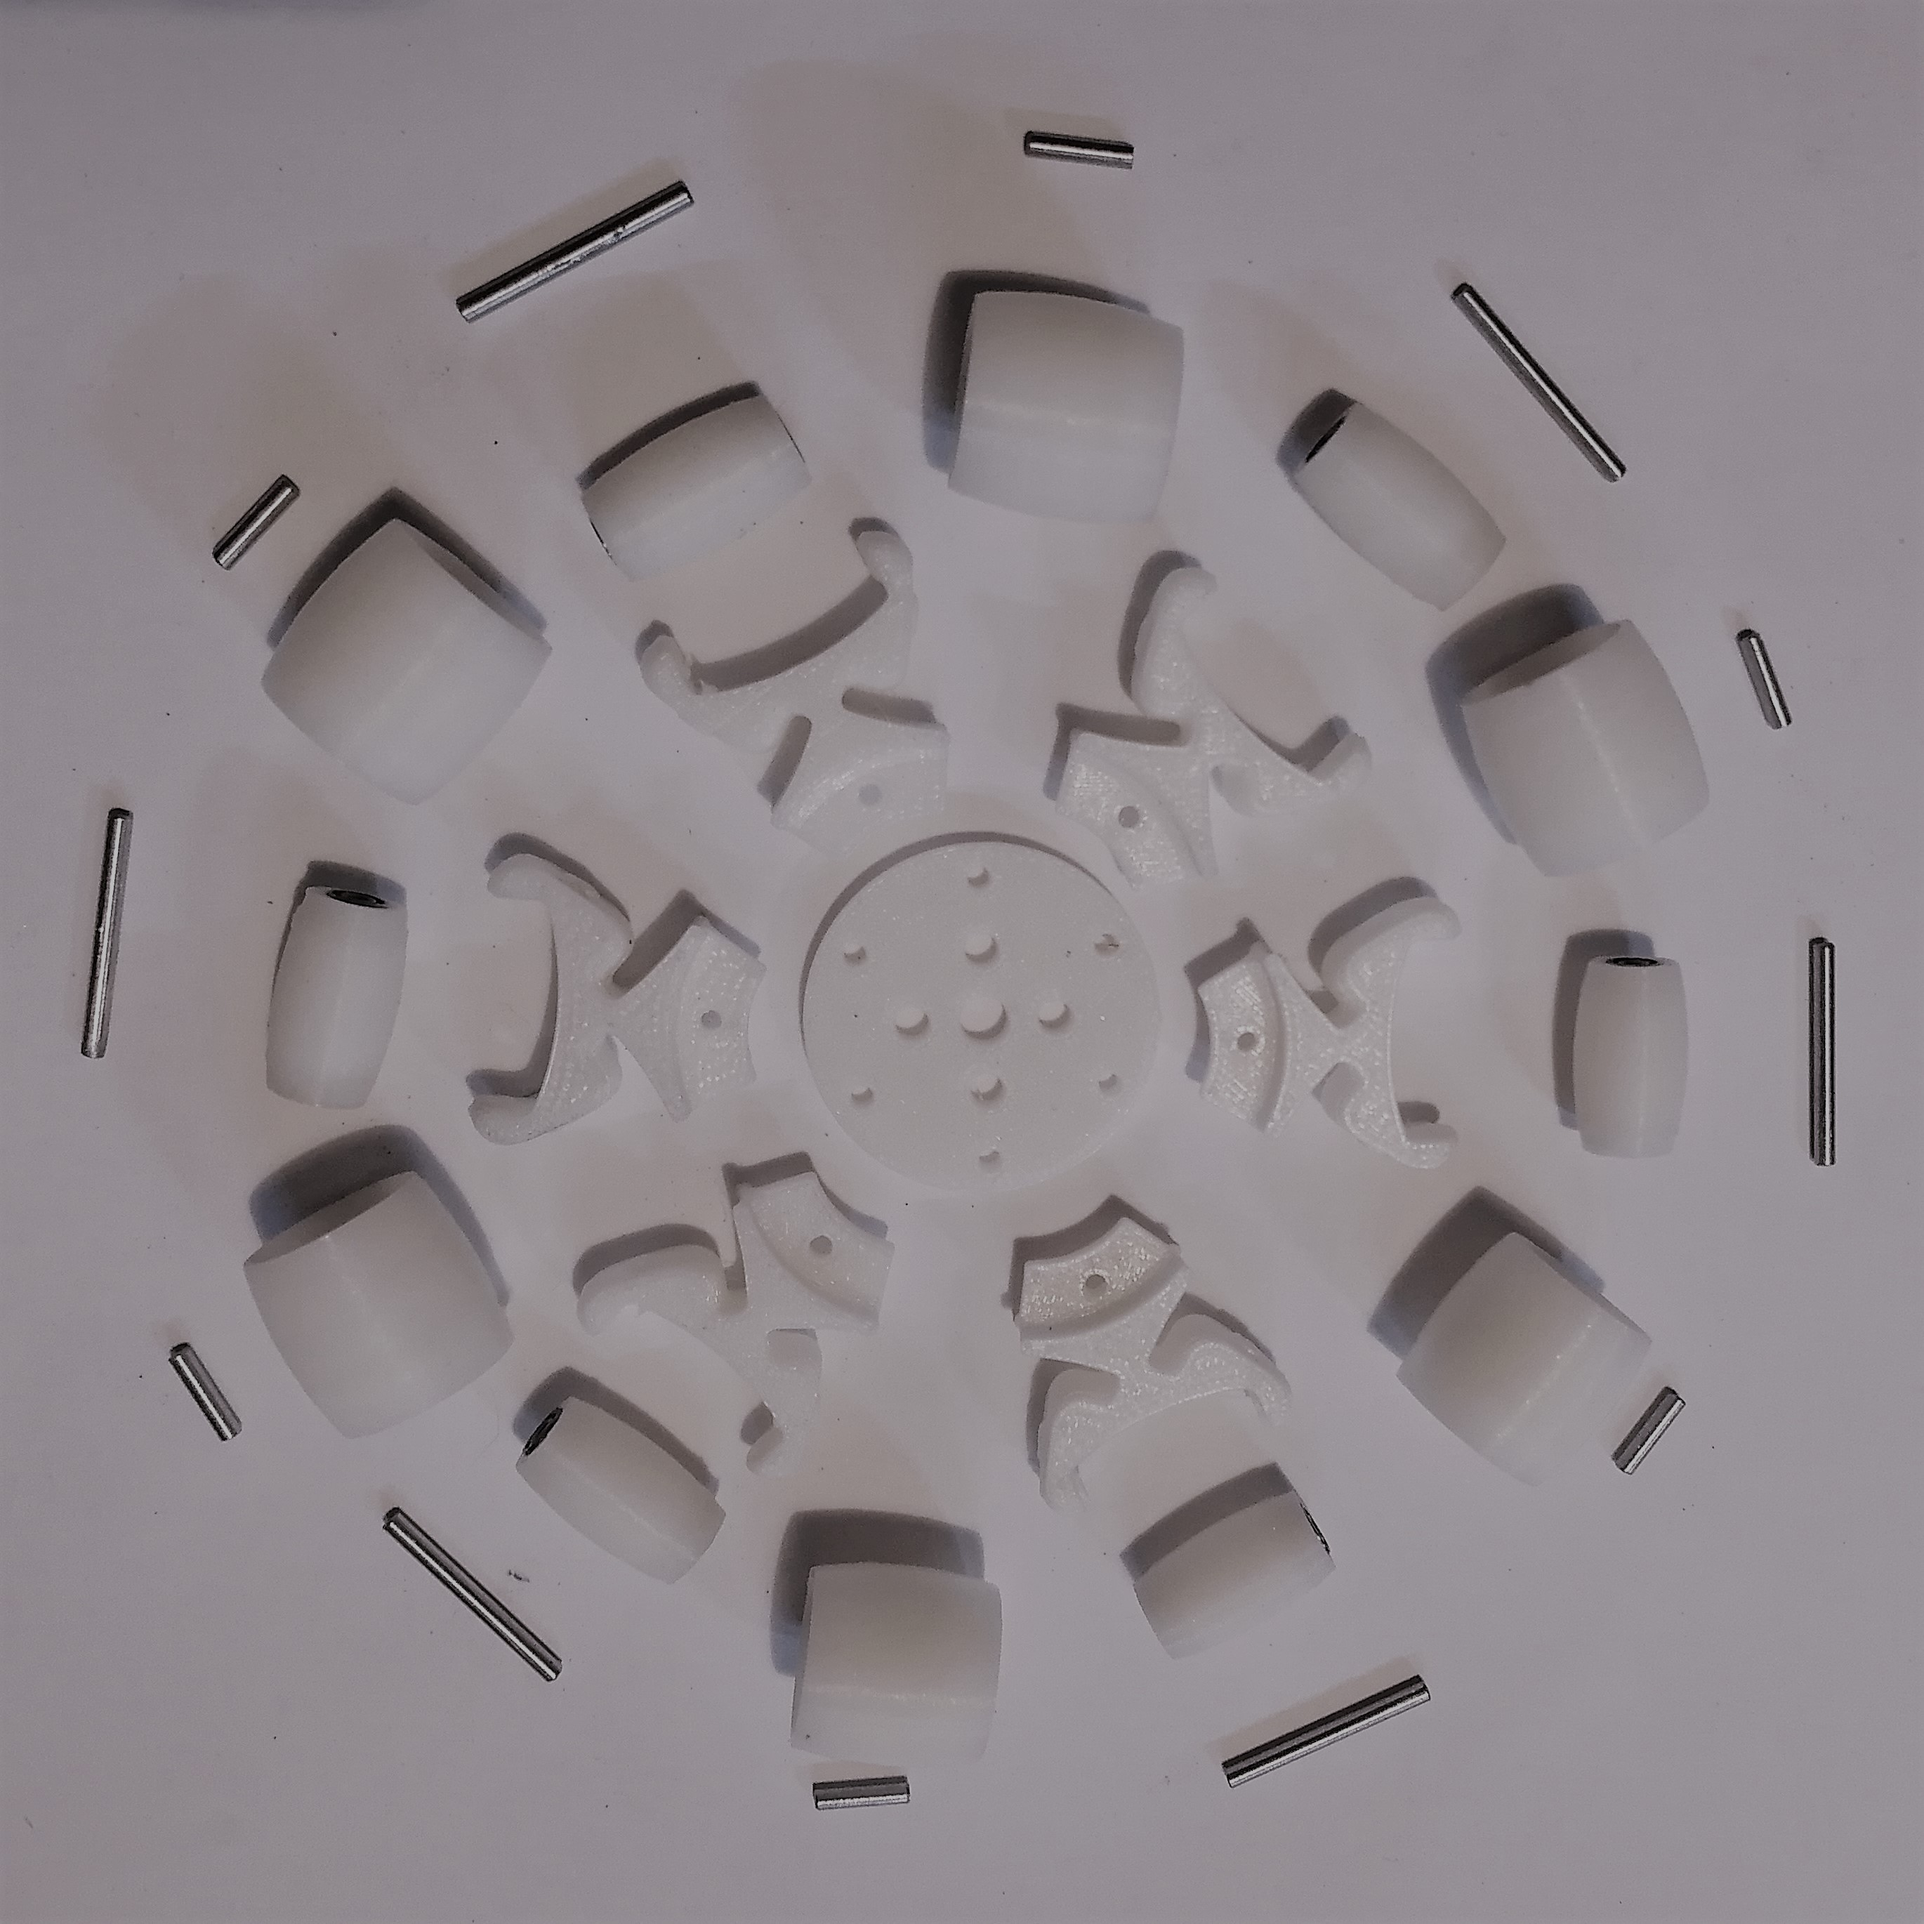
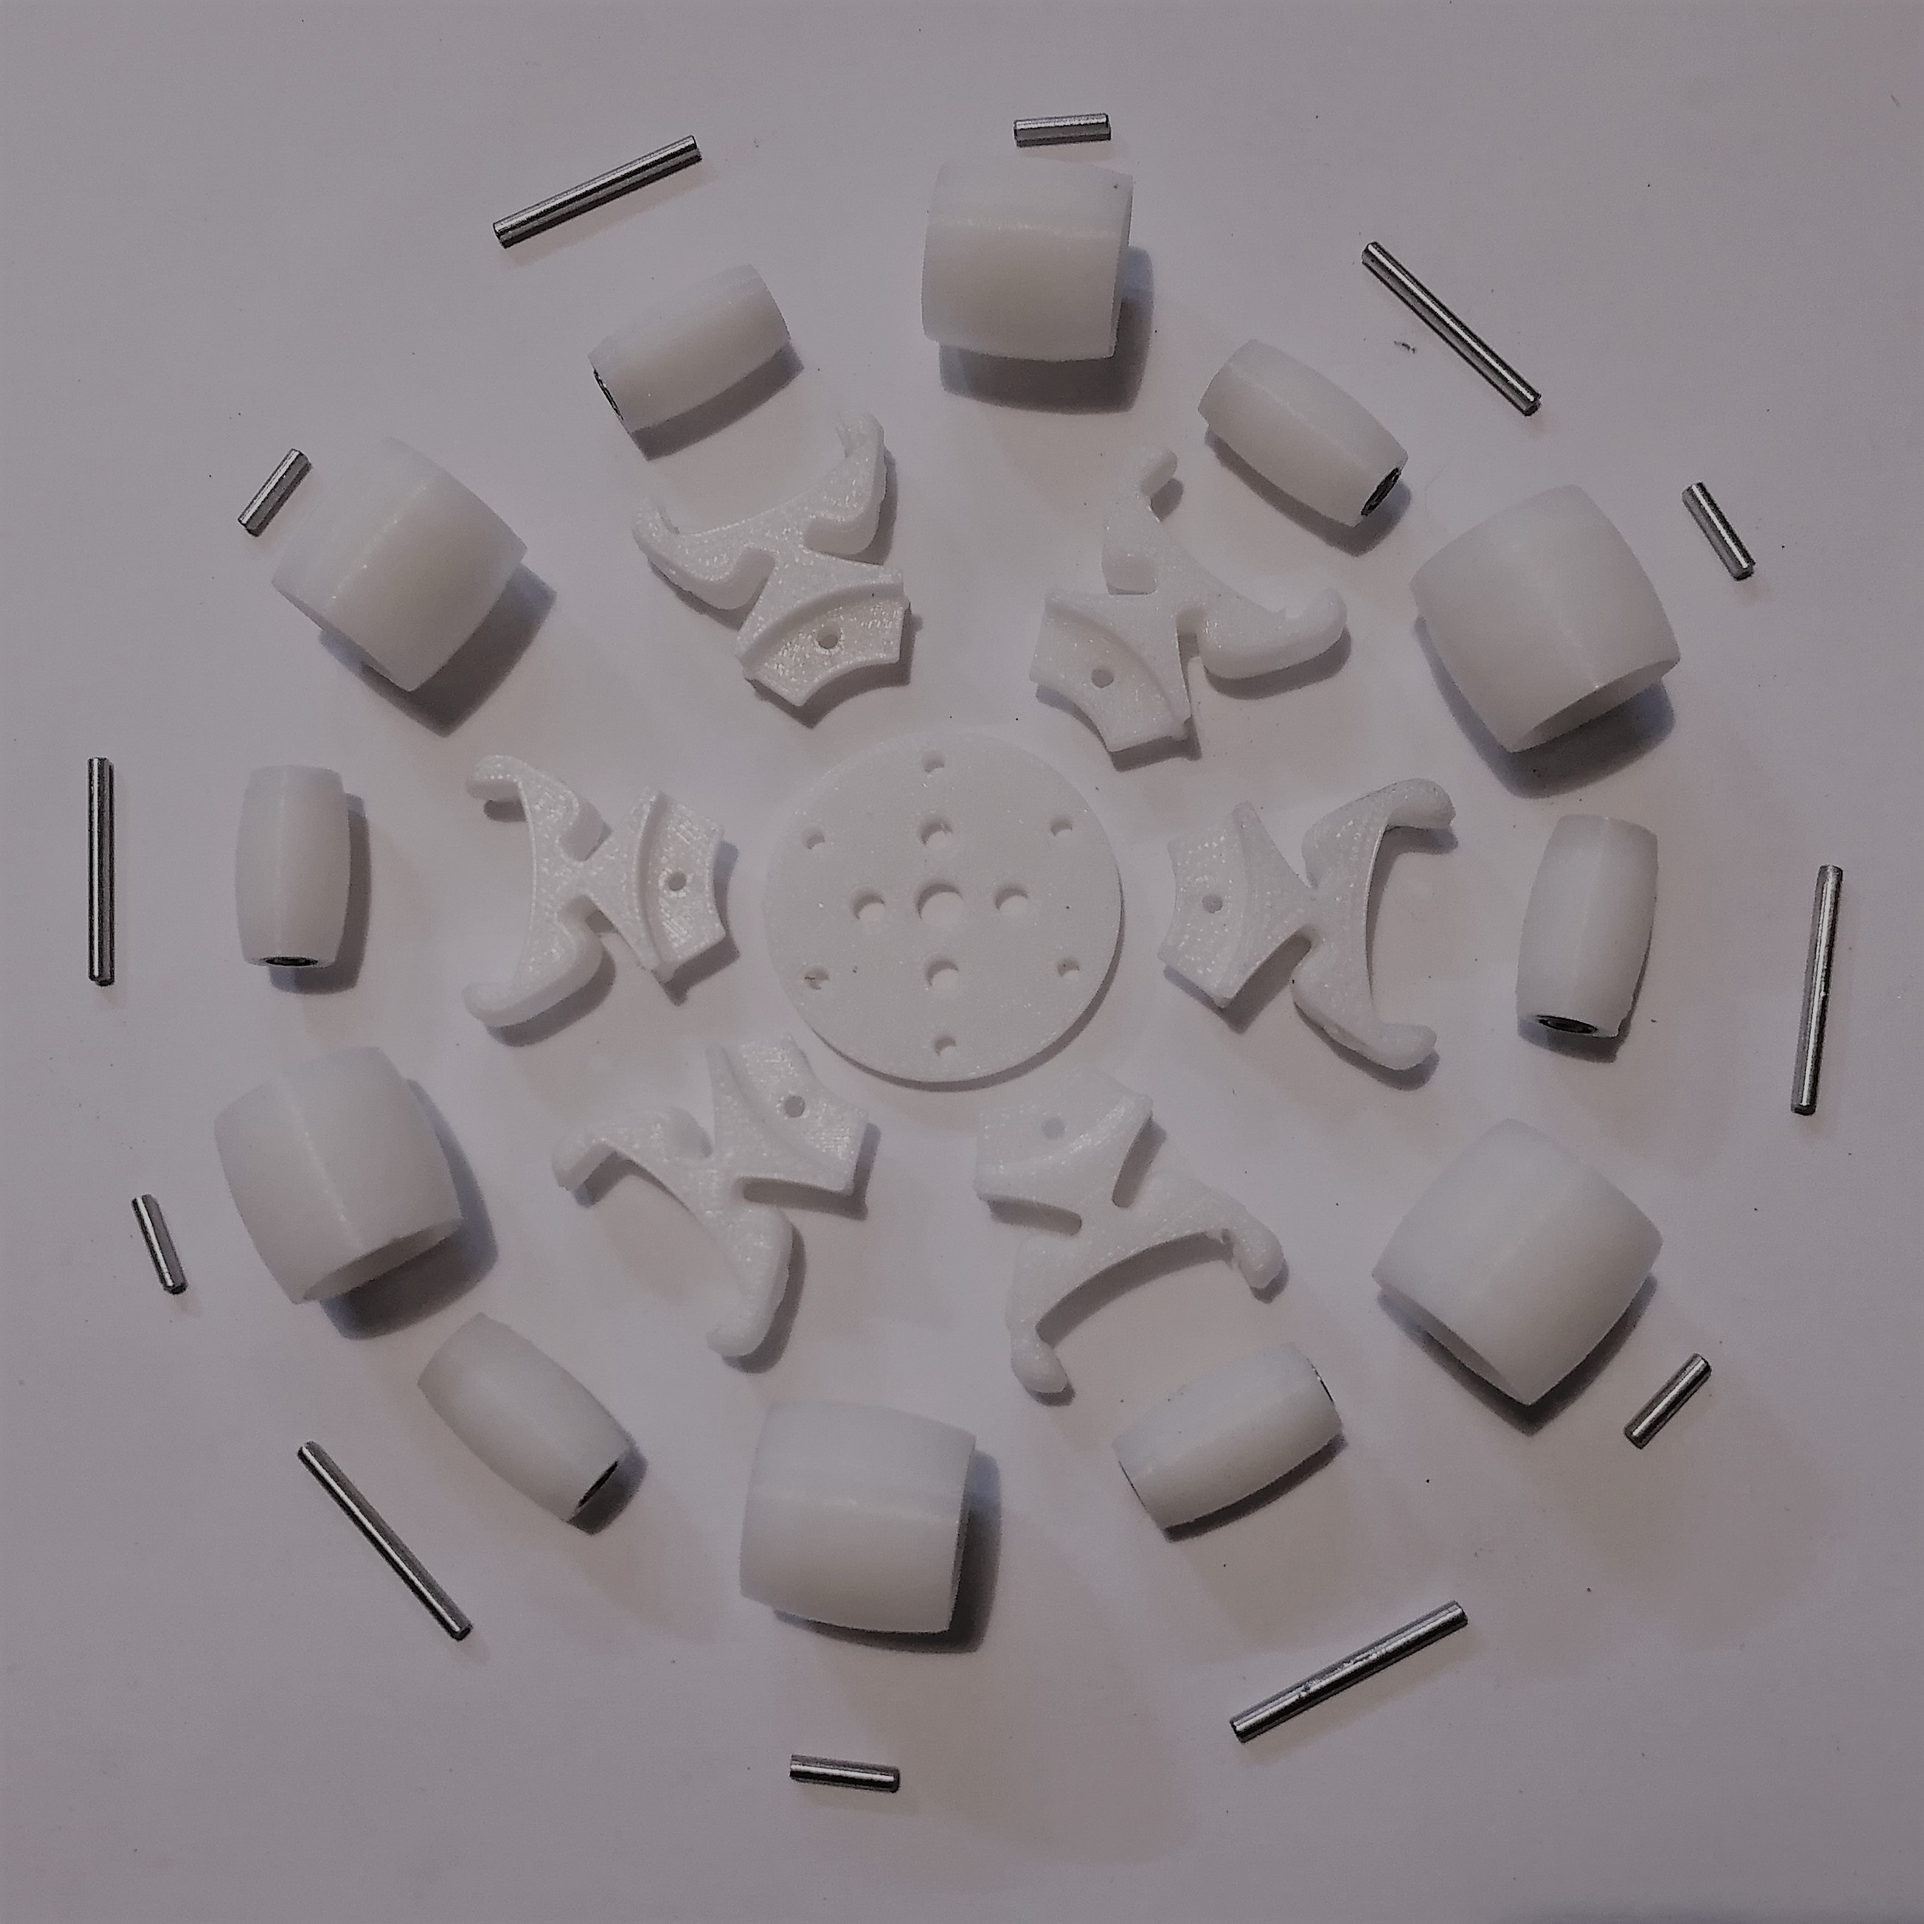
no message

diff --git a/docs/Kinematics.md b/docs/Kinematics.md
@@ -3,7 +3,7 @@
 Kinematics means to compute the speed of each wheel out of the body's movement and vice versa.
 I will not bother you with the details of two weekend’s work, but make this story short, the final formula is:
 
-<img align="left" width="300" src="../images/kinematics/image001.png" >
+<img width="600" src="../images/kinematics/image001.png" >
 
 
 which gives you the speed of every omniwheel out of the speed in x/y direction and the angular speed around the z-axis.
@@ -19,13 +19,13 @@ The kinematic parameters are
 
 | Symbol   | Description                                                                   |       
 |--------- |-------------------------------------------------------------------------------|
-| ω<sub>wi</sub>| angular velocity of the i.th wheel  in [revolutions/second]              |
+| ω<sub>wi</sub>| angular velocity of the i<sup>th</sup> wheel in [revolutions/second]              |
 | v<sub>x</sub> | body speed in x-direction in [mm/s]							           |
 | v<sub>y</sub> | body speed in y-direction in [mm/s]							           |
 
-In the formula above, <i>R</i>i> is the rotation matrix of the current tilt of the bot, it is a regular rotation matrix 
+In the formula above, <i>R</i> is the rotation matrix of the current tilt of the bot, it is a regular rotation matrix 
 
-<img align="left" width="300" src="../images/kinematics/image021.png" >
+<img width="400" src="../images/kinematics/image021.png" >
 
 with <br>
 φ<sub>y<sub/> tilt angle of the bot in y direction in [rad]
@@ -33,8 +33,7 @@ with <br>
 
 For forward kinematics we need the formula reversed, which is
 
-
-<img align="left" width="300" src="../images/kinematics/image027.png" >
+<img  src="../images/kinematics/image027.png" >
 
 This gives you the speed in x and y direction out oft he speed of all omniwheels
 
@@ -42,10 +41,10 @@ This gives you the speed in x and y direction out oft he speed of all omniwheels
 
 During setup of the bot, we can precompute the so-called construction matrix <i>CM</i>.
 
-<img align="left" width="300" src="../images/kinematics/image031.png" >
+<img  src="../images/kinematics/image031.png" >
 
 During runtime a continously running loop, we have the tilt angles coming from the IMU, and compute the tilt correction matrix <i>R</i>i We are lucky that al that is finally multiplied with the sparse matrix 
 
-<img align="left" width="300" src="../images/kinematics/image033.png" >
+<img  src="../images/kinematics/image033.png" >
 
-which means that we do not have to compute a full matrix multiplication of CM*R with 81 floating point multiplications, but can omit the computation where the matrix above has a 0 requiring 10 multiplications only.
+which means that we do not have to compute a full matrix multiplication of CM*R with 81 floating point multiplications, but we can omit the computation where the matrix above is zero requiring 10 multiplications only.

diff --git a/docs/OmniWheels.md b/docs/OmniWheels.md
@@ -8,8 +8,7 @@ This patent has a surprising design of the big roll. Its width is much smaller t
 
 <img  width="350px" src="../images/omniwheel/japanese patent big roll.png" >
 
-My [CAD model](https://github.com/jochenalt/Ondine/blob/master/CAD/OmniWheel.iam) needs to be 3d-printed, and the spoke of the patent is so thin, that this would never work. The spoke needs to carry the full weight, so it requires much more material on the spots where the bearings are mounted. In order to allow more material  in the little space available, I designed the spoke with a constant distant to the roll.
-
+My [CAD model](https://github.com/jochenalt/Ondine/blob/master/CAD/OmniWheel.iam) needs to be 3d-printed, and the spoke of the patent is so thin, that this would never work. It  carries the bot's full weight, so it requires more material on the spots where the bearings are mounted. So, I designed the spoke with a constant distant to the roll giving the spoke a round surface where it faces the roll.
 
 I ended up with that design, that has an identical width of all rolls and two bearings each. 
 
